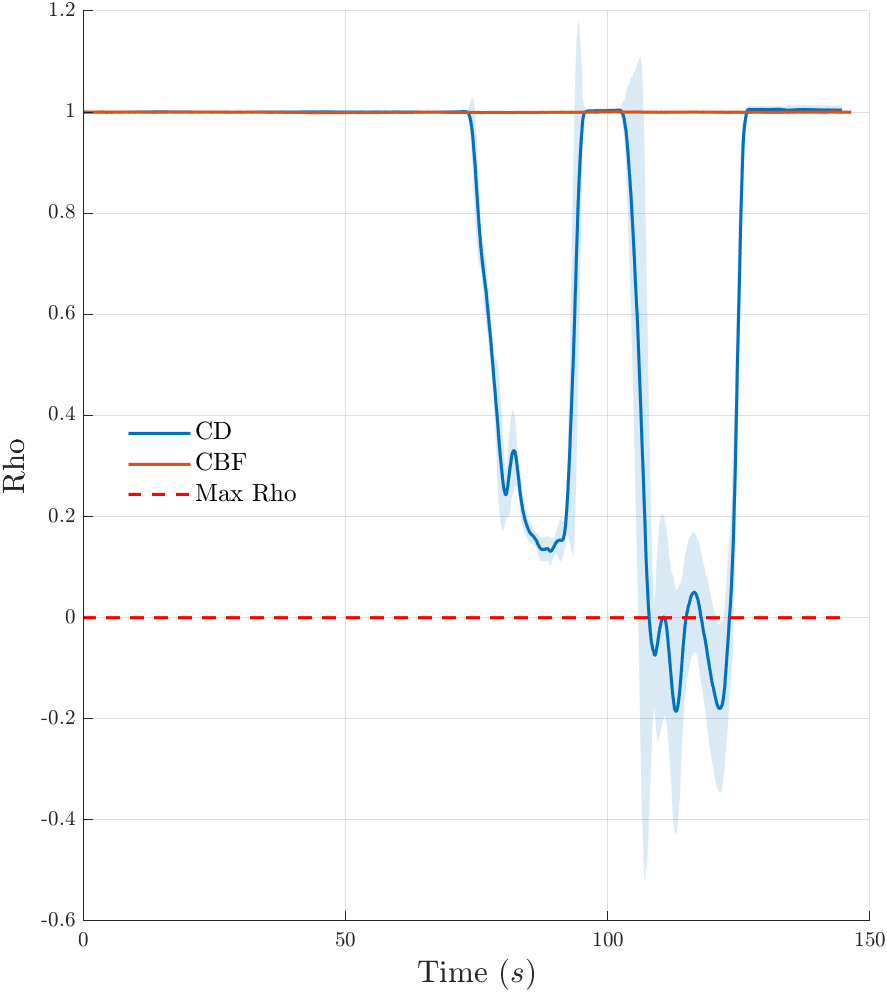
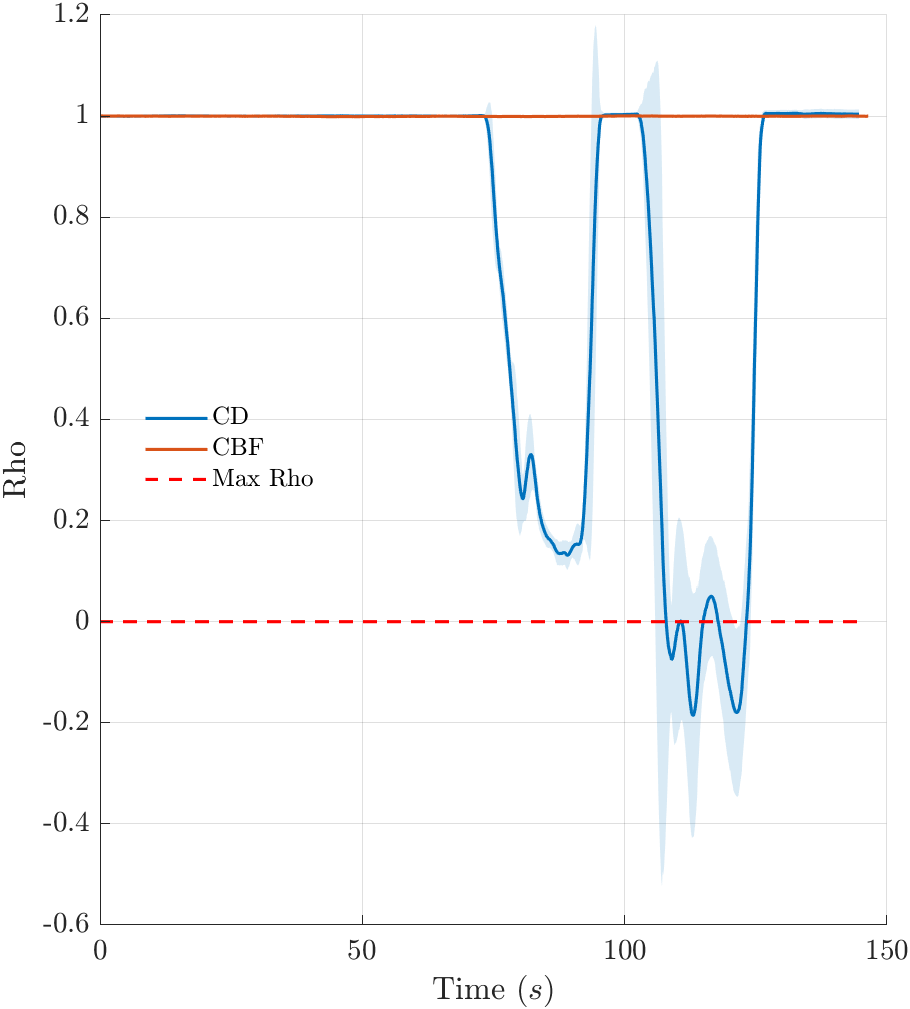
updated plots with changeable axis font size

diff --git a/soft_plotting_code/example_plotter.m b/soft_plotting_code/example_plotter.m
@@ -36,23 +36,23 @@ k = 11.16;
 
 % Open-loop motion for dynamics calibration with amplitude of 100 and period of 200
 dat = 'manuscript_data/ezloophw_closedloop_ros2_reserv_pneumatics_2026-3-25_CalibrationRunV1.csv';
-[time_cal, q_cal, dq_cal, ddq_cal, smooth_q_cal, smooth_dq_cal, smooth_ddq_cal, calib_start,~] = ezloopdata_compare(dat, false, false, true, 0);
+[time_cal, q_cal, dq_cal, ddq_cal, smooth_q_cal, smooth_dq_cal, smooth_ddq_cal, calib_start,~,calib_cont] = ezloopdata_compare(dat, false, false, true, 0);
 
 % PD Tuning Results 
 dat = 'manuscript_data/ezloophw_closedloop_ros2_reserv_pneumatics_2026-3-26_PD1.csv'; 
-[time_PD1, q_PD1, dq_PD1, ddq_PD1, smooth_q_PD1, smooth_dq_PD1, smooth_ddq_PD1,~,~] = ezloopdata_compare(dat, false, false, true, 0);
+[time_PD1, q_PD1, dq_PD1, ddq_PD1, smooth_q_PD1, smooth_dq_PD1, smooth_ddq_PD1,~,~,~] = ezloopdata_compare(dat, false, false, true, 0);
 
 dat = 'manuscript_data/ezloophw_closedloop_ros2_reserv_pneumatics_2026-3-26_PD2.csv'; 
-[time_PD2, q_PD2, dq_PD2, ddq_PD2, smooth_q_PD2, smooth_dq_PD2, smooth_ddq_PD2,~,~] = ezloopdata_compare(dat, false, false, true, 0);
+[time_PD2, q_PD2, dq_PD2, ddq_PD2, smooth_q_PD2, smooth_dq_PD2, smooth_ddq_PD2,~,~,~] = ezloopdata_compare(dat, false, false, true, 0);
 
 dat = 'manuscript_data/ezloophw_closedloop_ros2_reserv_pneumatics_2026-3-26_PD3.csv'; 
-[time_PD3, q_PD3, dq_PD3, ddq_PD3, smooth_q_PD3, smooth_dq_PD3, smooth_ddq_PD3,~,~] = ezloopdata_compare(dat, false, false, true, 0);
+[time_PD3, q_PD3, dq_PD3, ddq_PD3, smooth_q_PD3, smooth_dq_PD3, smooth_ddq_PD3,~,~,~] = ezloopdata_compare(dat, false, false, true, 0);
 
 dat = 'manuscript_data/ezloophw_closedloop_ros2_reserv_pneumatics_2026-3-26_PD4.csv'; 
-[time_PD4, q_PD4, dq_PD4, ddq_PD4, smooth_q_PD4, smooth_dq_PD4, smooth_ddq_PD4,~,~] = ezloopdata_compare(dat, false, false, true, 0);
+[time_PD4, q_PD4, dq_PD4, ddq_PD4, smooth_q_PD4, smooth_dq_PD4, smooth_ddq_PD4,~,~,~] = ezloopdata_compare(dat, false, false, true, 0);
 
 dat = 'manuscript_data/ezloophw_closedloop_ros2_reserv_pneumatics_2026-3-26_PD5.csv'; 
-[time_PD5, q_PD5, dq_PD5, ddq_PD5, smooth_q_PD5, smooth_dq_PD5, smooth_ddq_PD5,~,~] = ezloopdata_compare(dat, false, false, true, 0);
+[time_PD5, q_PD5, dq_PD5, ddq_PD5, smooth_q_PD5, smooth_dq_PD5, smooth_ddq_PD5,~,~,~] = ezloopdata_compare(dat, false, false, true, 0);
 
 smooth_q_cells = {smooth_q_PD1, smooth_q_PD2, smooth_q_PD3, ...
                   smooth_q_PD4, smooth_q_PD5};
@@ -71,19 +71,19 @@ TunePD = ezloopdata_safetyplotter(smooth_q_cells, time_cells, time_step, smooth_
 
 % PD Attempt at Tracking Calibration 
 dat = 'manuscript_data/ezloophw_closedloop_ros2_reserv_pneumatics_2026-3-26_PDCal1.csv'; 
-[time_PDCal1, q_PDCal1, dq_PDCal1, ddq_PDCal1, smooth_q_PDCal1, smooth_dq_PDCal1, smooth_ddq_PDCal1,~,~] = ezloopdata_compare(dat, false, false, true, calib_start);
+[time_PDCal1, q_PDCal1, dq_PDCal1, ddq_PDCal1, smooth_q_PDCal1, smooth_dq_PDCal1, smooth_ddq_PDCal1,~,~,~] = ezloopdata_compare(dat, false, false, true, calib_start);
 
 dat = 'manuscript_data/ezloophw_closedloop_ros2_reserv_pneumatics_2026-3-26_PDCal2.csv'; 
-[time_PDCal2, q_PDCal2, dq_PDCal2, ddq_PDCal2, smooth_q_PDCal2, smooth_dq_PDCal2, smooth_ddq_PDCal2,~,~] = ezloopdata_compare(dat, false, false, true, calib_start);
+[time_PDCal2, q_PDCal2, dq_PDCal2, ddq_PDCal2, smooth_q_PDCal2, smooth_dq_PDCal2, smooth_ddq_PDCal2,~,~,~] = ezloopdata_compare(dat, false, false, true, calib_start);
 
 dat = 'manuscript_data/ezloophw_closedloop_ros2_reserv_pneumatics_2026-3-26_PDCal3.csv'; 
-[time_PDCal3, q_PDCal3, dq_PDCal3, ddq_PDCal3, smooth_q_PDCal3, smooth_dq_PDCal3, smooth_ddq_PDCal3,~,~] = ezloopdata_compare(dat, false, false, true, calib_start);
+[time_PDCal3, q_PDCal3, dq_PDCal3, ddq_PDCal3, smooth_q_PDCal3, smooth_dq_PDCal3, smooth_ddq_PDCal3,~,~,~] = ezloopdata_compare(dat, false, false, true, calib_start);
 
 dat = 'manuscript_data/ezloophw_closedloop_ros2_reserv_pneumatics_2026-3-26_PDCal4.csv'; 
-[time_PDCal4, q_PDCal4, dq_PDCal4, ddq_PDCal4, smooth_q_PDCal4, smooth_dq_PDCal4, smooth_ddq_PDCal4,~,~] = ezloopdata_compare(dat, false, false, true, calib_start);
+[time_PDCal4, q_PDCal4, dq_PDCal4, ddq_PDCal4, smooth_q_PDCal4, smooth_dq_PDCal4, smooth_ddq_PDCal4,~,~,~] = ezloopdata_compare(dat, false, false, true, calib_start);
 
 dat = 'manuscript_data/ezloophw_closedloop_ros2_reserv_pneumatics_2026-3-26_PDCal5.csv'; 
-[time_PDCal5, q_PDCal5, dq_PDCal5, ddq_PDCal5, smooth_q_PDCal5, smooth_dq_PDCal5, smooth_ddq_PDCal5,~,~] = ezloopdata_compare(dat, false, false, true, calib_start);
+[time_PDCal5, q_PDCal5, dq_PDCal5, ddq_PDCal5, smooth_q_PDCal5, smooth_dq_PDCal5, smooth_ddq_PDCal5,~,~,~] = ezloopdata_compare(dat, false, false, true, calib_start);
 
 smooth_q_cells = {smooth_q_PDCal1, smooth_q_PDCal2, smooth_q_PDCal3, ...
                   smooth_q_PDCal4, smooth_q_PDCal5};
@@ -96,19 +96,19 @@ CalibPD = ezloopdata_safetyplotter(smooth_q_cells, time_cells, time_cal, smooth_
 
 % CD Results tracking calib trajectory
 dat = 'manuscript_data/ezloophw_closedloop_ros2_reserv_pneumatics_2026-3-25_TrackCalib1.csv'; 
-[time_tra1, q_tra1, dq_tra1, ddq_tra1, smooth_q_tra1, smooth_dq_tra1, smooth_ddq_tra1,~,~] = ezloopdata_compare(dat, false, false, true, calib_start);
+[time_tra1, q_tra1, dq_tra1, ddq_tra1, smooth_q_tra1, smooth_dq_tra1, smooth_ddq_tra1,~,~,~] = ezloopdata_compare(dat, false, false, true, calib_start);
 
 dat = 'manuscript_data/ezloophw_closedloop_ros2_reserv_pneumatics_2026-3-25_TrackCalib2.csv'; 
-[time_tra2, q_tra2, dq_tra2, ddq_tra2, smooth_q_tra2, smooth_dq_tra2, smooth_ddq_tra2,~,~] = ezloopdata_compare(dat, false, false, true, calib_start);
+[time_tra2, q_tra2, dq_tra2, ddq_tra2, smooth_q_tra2, smooth_dq_tra2, smooth_ddq_tra2,~,~,~] = ezloopdata_compare(dat, false, false, true, calib_start);
 
 dat = 'manuscript_data/ezloophw_closedloop_ros2_reserv_pneumatics_2026-3-25_TrackCalib3.csv'; 
-[time_tra3, q_tra3, dq_tra3, ddq_tra3, smooth_q_tra3, smooth_dq_tra3, smooth_ddq_tra3,~,~] = ezloopdata_compare(dat, false, false, true, calib_start);
+[time_tra3, q_tra3, dq_tra3, ddq_tra3, smooth_q_tra3, smooth_dq_tra3, smooth_ddq_tra3,~,~,~] = ezloopdata_compare(dat, false, false, true, calib_start);
 
 dat = 'manuscript_data/ezloophw_closedloop_ros2_reserv_pneumatics_2026-3-25_TrackCalib4.csv'; 
-[time_tra4, q_tra4, dq_tra4, ddq_tra4, smooth_q_tra4, smooth_dq_tra4, smooth_ddq_tra4,~,~] = ezloopdata_compare(dat, false, false, true, calib_start);
+[time_tra4, q_tra4, dq_tra4, ddq_tra4, smooth_q_tra4, smooth_dq_tra4, smooth_ddq_tra4,~,~,~] = ezloopdata_compare(dat, false, false, true, calib_start);
 
 dat = 'manuscript_data/ezloophw_closedloop_ros2_reserv_pneumatics_2026-3-25_TrackCalib5.csv'; 
-[time_tra5, q_tra5, dq_tra5, ddq_tra5, smooth_q_tra5, smooth_dq_tra5, smooth_ddq_tra5,~,~] = ezloopdata_compare(dat, false, false, true, calib_start);
+[time_tra5, q_tra5, dq_tra5, ddq_tra5, smooth_q_tra5, smooth_dq_tra5, smooth_ddq_tra5,~,~,~] = ezloopdata_compare(dat, false, false, true, calib_start);
 
 smooth_q_cells = {smooth_q_tra1, smooth_q_tra2, smooth_q_tra3, ...
                   smooth_q_tra4, smooth_q_tra5};
@@ -135,23 +135,23 @@ CalibCD = ezloopdata_safetyplotter(smooth_q_cells, time_cells, time_cal, smooth_
 %%%%%%%%%%%%%%%%%%%%%%%%%%%%%%%%%%%%%%%%%
 % Teach-and-Repeat 4 trajectory
 dat = 'manuscript_data/ezloophw_closedloop_ros2_reserv_pneumatics_2026-3-26_TnR4.csv'; 
-[time_TnR4, q_TnR4, dq_TnR4, ddq_TnR4, smooth_q_TnR4,smooth_dq_TnR4,smooth_ddq_TnR4, index_TnR4, ~] = ezloopdata_compare(dat, false, false, false, 0);
+[time_TnR4, q_TnR4, dq_TnR4, ddq_TnR4, smooth_q_TnR4,smooth_dq_TnR4,smooth_ddq_TnR4, index_TnR4, ~,~] = ezloopdata_compare(dat, false, false, false, 0);
 
 % Inverse Dynamics Controller on TnR4 w/o forceplate
 dat = 'manuscript_data/ezloophw_closedloop_ros2_reserv_pneumatics_2026-3-26_TnR4CD1.csv'; 
-[time_CD1, q_CD1, dq_CD1, ddq_CD1, smooth_q_CD1, smooth_dq_CD1, smooth_ddq_CD1, ~, ~] = ezloopdata_compare(dat, false, false, false, index_TnR4);
+[time_CD1, q_CD1, dq_CD1, ddq_CD1, smooth_q_CD1, smooth_dq_CD1, smooth_ddq_CD1, ~, ~,~] = ezloopdata_compare(dat, false, false, false, index_TnR4);
 
 dat = 'manuscript_data/ezloophw_closedloop_ros2_reserv_pneumatics_2026-3-26_TnR4CD2.csv'; 
-[time_CD2, q_CD2, dq_CD2, ddq_CD2, smooth_q_CD2, smooth_dq_CD2, smooth_ddq_CD2, ~, ~] = ezloopdata_compare(dat, false, false, false, index_TnR4);
+[time_CD2, q_CD2, dq_CD2, ddq_CD2, smooth_q_CD2, smooth_dq_CD2, smooth_ddq_CD2, ~, ~,~] = ezloopdata_compare(dat, false, false, false, index_TnR4);
 
 dat = 'manuscript_data/ezloophw_closedloop_ros2_reserv_pneumatics_2026-3-26_TnR4CD3.csv'; 
-[time_CD3, q_CD3, dq_CD3, ddq_CD3, smooth_q_CD3, smooth_dq_CD3, smooth_ddq_CD3, ~, ~] = ezloopdata_compare(dat, false, false, false, index_TnR4);
+[time_CD3, q_CD3, dq_CD3, ddq_CD3, smooth_q_CD3, smooth_dq_CD3, smooth_ddq_CD3, ~, ~,~] = ezloopdata_compare(dat, false, false, false, index_TnR4);
 
 dat = 'manuscript_data/ezloophw_closedloop_ros2_reserv_pneumatics_2026-3-26_TnR4CD4.csv'; 
-[time_CD4, q_CD4, dq_CD4, ddq_CD4, smooth_q_CD4, smooth_dq_CD4, smooth_ddq_CD4, ~, ~] = ezloopdata_compare(dat, false, false, false, index_TnR4);
+[time_CD4, q_CD4, dq_CD4, ddq_CD4, smooth_q_CD4, smooth_dq_CD4, smooth_ddq_CD4, ~, ~,~] = ezloopdata_compare(dat, false, false, false, index_TnR4);
 
 dat = 'manuscript_data/ezloophw_closedloop_ros2_reserv_pneumatics_2026-3-26_TnR4CD5.csv'; 
-[time_CD5, q_CD5, dq_CD5, ddq_CD5, smooth_q_CD5, smooth_dq_CD5, smooth_ddq_CD5, ~, ~] = ezloopdata_compare(dat, false, false, false, index_TnR4);
+[time_CD5, q_CD5, dq_CD5, ddq_CD5, smooth_q_CD5, smooth_dq_CD5, smooth_ddq_CD5, ~, ~,~] = ezloopdata_compare(dat, false, false, false, index_TnR4);
 
 smooth_q_cells = {smooth_q_CD1, smooth_q_CD2, smooth_q_CD3, ...
                   smooth_q_CD4, smooth_q_CD5};
@@ -164,19 +164,19 @@ TnR = ezloopdata_safetyplotter(smooth_q_cells, time_cells, time_TnR4, smooth_q_T
 
 % Inverse Dynamics Controller on TnR4 w/ forceplate
 dat = 'manuscript_data/ezloophw_closedloop_ros2_reserv_pneumatics_2026-3-26_CD4FP1.csv'; 
-[time_CDFP1, q_CDFP1, dq_CDFP1, ddq_CDFP1, smooth_q_CDFP1, smooth_dq_CDFP1, smooth_ddq_CDFP1, ~, rho0_CDFP1] = ezloopdata_compare(dat, false, false, false, index_TnR4);
+[time_CDFP1, q_CDFP1, dq_CDFP1, ddq_CDFP1, smooth_q_CDFP1, smooth_dq_CDFP1, smooth_ddq_CDFP1, ~, rho0_CDFP1,~] = ezloopdata_compare(dat, false, false, false, index_TnR4);
  
 dat = 'manuscript_data/ezloophw_closedloop_ros2_reserv_pneumatics_2026-3-26_CD4FP2.csv'; 
-[time_CDFP2, q_CDFP2, dq_CDFP2, ddq_CDFP2, smooth_q_CDFP2, smooth_dq_CDFP2, smooth_ddq_CDFP2, ~, rho0_CDFP2] = ezloopdata_compare(dat, false, false, false, index_TnR4);
+[time_CDFP2, q_CDFP2, dq_CDFP2, ddq_CDFP2, smooth_q_CDFP2, smooth_dq_CDFP2, smooth_ddq_CDFP2, ~, rho0_CDFP2,~] = ezloopdata_compare(dat, false, false, false, index_TnR4);
 
 dat = 'manuscript_data/ezloophw_closedloop_ros2_reserv_pneumatics_2026-3-26_CD4FP3.csv'; 
-[time_CDFP3, q_CDFP3, dq_CDFP3, ddq_CDFP3, smooth_q_CDFP3, smooth_dq_CDFP3, smooth_ddq_CDFP3, ~, rho0_CDFP3] = ezloopdata_compare(dat, false, false, false, index_TnR4);
+[time_CDFP3, q_CDFP3, dq_CDFP3, ddq_CDFP3, smooth_q_CDFP3, smooth_dq_CDFP3, smooth_ddq_CDFP3, ~, rho0_CDFP3,~] = ezloopdata_compare(dat, false, false, false, index_TnR4);
 
 dat = 'manuscript_data/ezloophw_closedloop_ros2_reserv_pneumatics_2026-3-26_CD4FP4.csv'; 
-[time_CDFP4, q_CDFP4, dq_CDFP4, ddq_CDFP4, smooth_q_CDFP4, smooth_dq_CDFP4, smooth_ddq_CDFP4, ~, rho0_CDFP4] = ezloopdata_compare(dat, false, false, false, index_TnR4);
+[time_CDFP4, q_CDFP4, dq_CDFP4, ddq_CDFP4, smooth_q_CDFP4, smooth_dq_CDFP4, smooth_ddq_CDFP4, ~, rho0_CDFP4,~] = ezloopdata_compare(dat, false, false, false, index_TnR4);
 
 dat = 'manuscript_data/ezloophw_closedloop_ros2_reserv_pneumatics_2026-3-26_CD4FP5.csv'; 
-[time_CDFP5, q_CDFP5, dq_CDFP5, ddq_CDFP5, smooth_q_CDFP5, smooth_dq_CDFP5, smooth_ddq_CDFP5, ~, rho0_CDFP5] = ezloopdata_compare(dat, false, false, false, index_TnR4);
+[time_CDFP5, q_CDFP5, dq_CDFP5, ddq_CDFP5, smooth_q_CDFP5, smooth_dq_CDFP5, smooth_ddq_CDFP5, ~, rho0_CDFP5,~] = ezloopdata_compare(dat, false, false, false, index_TnR4);
 
 smooth_q_cells = {smooth_q_CDFP1, smooth_q_CDFP2, smooth_q_CDFP3, ...
                   smooth_q_CDFP4, smooth_q_CDFP5};
@@ -191,19 +191,19 @@ TnRCDFP = ezloopdata_safetyplotter(smooth_q_cells, time_cells, time_TnR4, smooth
 %% CBF Controller Response for High Conservative Case for Teach and Repeat 4
 
 dat = 'manuscript_data/ezloophw_closedloop_ros2_reserv_pneumatics_2026-3-26_TnR4CBFH1.csv'; 
-[time_H1, q_H1, dq_H1, ddq_H1, smooth_q_H1, smooth_dq_H1, smooth_ddq_H1, ~, rho0_H1] = ezloopdata_compare(dat, false, false, false, index_TnR4);
+[time_H1, q_H1, dq_H1, ddq_H1, smooth_q_H1, smooth_dq_H1, smooth_ddq_H1, ~, rho0_H1,~] = ezloopdata_compare(dat, false, false, false, index_TnR4);
  
 dat = 'manuscript_data/ezloophw_closedloop_ros2_reserv_pneumatics_2026-3-26_TnR4CBFH2.csv'; 
-[time_H2, q_H2, dq_H2, ddq_H2, smooth_q_H2, smooth_dq_H2, smooth_ddq_H2, ~, rho0_H2] = ezloopdata_compare(dat, false, false, false, index_TnR4);
+[time_H2, q_H2, dq_H2, ddq_H2, smooth_q_H2, smooth_dq_H2, smooth_ddq_H2, ~, rho0_H2,~] = ezloopdata_compare(dat, false, false, false, index_TnR4);
 
 dat = 'manuscript_data/ezloophw_closedloop_ros2_reserv_pneumatics_2026-3-26_TnR4CBFH3.csv'; 
-[time_H3, q_H3, dq_H3, ddq_H3, smooth_q_H3, smooth_dq_H3, smooth_ddq_H3, ~, rho0_H3] = ezloopdata_compare(dat, false, false, false, index_TnR4);
+[time_H3, q_H3, dq_H3, ddq_H3, smooth_q_H3, smooth_dq_H3, smooth_ddq_H3, ~, rho0_H3,~] = ezloopdata_compare(dat, false, false, false, index_TnR4);
 
 dat = 'manuscript_data/ezloophw_closedloop_ros2_reserv_pneumatics_2026-3-26_TnR4CBFH4.csv'; 
-[time_H4, q_H4, dq_H4, ddq_H4, smooth_q_H4, smooth_dq_H4, smooth_ddq_H4, ~, rho0_H4] = ezloopdata_compare(dat, false, false, false, index_TnR4);
+[time_H4, q_H4, dq_H4, ddq_H4, smooth_q_H4, smooth_dq_H4, smooth_ddq_H4, ~, rho0_H4,~] = ezloopdata_compare(dat, false, false, false, index_TnR4);
 
 dat = 'manuscript_data/ezloophw_closedloop_ros2_reserv_pneumatics_2026-3-26_TnR4CBFH5.csv'; 
-[time_H5, q_H5, dq_H5, ddq_H5, smooth_q_H5, smooth_dq_H5, smooth_ddq_H5, ~, rho0_H5] = ezloopdata_compare(dat, false, false, false, index_TnR4);
+[time_H5, q_H5, dq_H5, ddq_H5, smooth_q_H5, smooth_dq_H5, smooth_ddq_H5, ~, rho0_H5,~] = ezloopdata_compare(dat, false, false, false, index_TnR4);
 
 smooth_q_cells = {smooth_q_H1, smooth_q_H2, smooth_q_H3, ...
                   smooth_q_H4, smooth_q_H5};
@@ -242,6 +242,8 @@ xlabel('Time (s)','FontSize',15)
 ylabel('$q_0$ (radians)','FontSize',15)
 lgd = legend([p1, p_r1], {'Calibrated Simulation','Reference Data'}, 'Location','best','FontSize',12);
 xlim([0 sim_time(end)])
+ax = gca;
+ax.FontSize = 14;
 grid on;
 hold off
 
@@ -251,6 +253,8 @@ p1 = plot(sim_time, sim_q2_inter, 'Color', [0 0.4470 0.7410], 'LineWidth', 1.5);
 
 xlabel('Time (s)','FontSize',15)
 ylabel('$q_1$ (radians)','FontSize',15)
+ax = gca;
+ax.FontSize = 14;
 grid on;
 hold off
 
@@ -324,6 +328,8 @@ p3 = plot(out1.rho.time, out1.rho.max, '--r', 'LineWidth', 1.5);
 
 ylabel('Rho','FontSize',15);xlabel('Time ($s$)','FontSize',15)
 lgd = legend([p1,p2,p3],{'CD','CBF','Max Rho'},'Location','best','FontSize',12);
+ax = gca;
+ax.FontSize = 14;
 
 lgd.Units = 'normalized';       % Make position relative to axes
 pos1 = lgd.Position;
@@ -360,6 +366,8 @@ p3 = plot(out1.time, F_max, '--r', 'LineWidth', 1.5);
 
 ylabel('Force ($N$)','FontSize',15);xlabel('Time ($s$)','FontSize',15)
 lgd = legend([p1,p2,p3],{'CD','CBF','Max Force'},'Location','best','FontSize',12);
+ax = gca;
+ax.FontSize = 14;
 
 hold off
 
@@ -386,6 +394,8 @@ p3 = plot(out1.time, F_max, '--r', 'LineWidth', 1.5);
 
 ylabel('Force ($N$)','FontSize',15);xlabel('Time ($s$)','FontSize',15)
 lgd = legend([p1,p3],{'CD','Max Force'},'Location','best','FontSize',12);
+ax = gca;
+ax.FontSize = 14;
 
 hold off
 
@@ -414,6 +424,8 @@ p3 = plot(out1.time, F_max, '--r', 'LineWidth', 1.5);
 
 ylabel('Force ($N$)','FontSize',15);xlabel('Time ($s$)','FontSize',15)
 lgd = legend([p2,p3],{'CBF','Max Force'},'Location','best','FontSize',12);
+ax = gca;
+ax.FontSize = 14;
 
 hold off
 
@@ -444,6 +456,8 @@ p2 = plot(out2.time, out2.q0.mu, 'Color', [0.8500 0.3250 0.0980], 'LineWidth', 1
 xlabel('Time (s)','FontSize',15)
 ylabel('$q_0$ (radians)','FontSize',15)
 lgd = legend([p1, p2, p_r1], {'CD','CBF','Reference'}, 'Location','best','FontSize',12);
+ax = gca;
+ax.FontSize = 14;
 grid on;
 hold off
 
@@ -458,13 +472,9 @@ p2 = plot(out2.time, out2.q1.mu, 'Color', [0.8500 0.3250 0.0980], 'LineWidth', 1
 
 xlabel('Time ($s$)','FontSize',15)
 ylabel('$q_1$ (radians)','FontSize',15)
+ax = gca;
+ax.FontSize = 14;
 hold off
-
-% lgd.Units = 'normalized';       % Make position relative to axes
-% pos1 = lgd.Position;
-% pos1(1) = pos1(1) - 0;         % Move right
-% pos1(2) = pos1(2) + 0;         % Move up
-% lgd.Position = pos1;
 
 hw_ratio = 1.1;
 
@@ -492,6 +502,8 @@ p1 = plot(out1.time, out1.q0.mu, 'Color', [0 0.4470 0.7410], 'LineWidth', 1.5);
 xlabel('Time (s)','FontSize',15)
 ylabel('$q_0$ (radians)','FontSize',15)
 lgd = legend([p1, p_r1], {'CD','Reference'}, 'Location','best','FontSize',12);
+ax = gca;
+ax.FontSize = 14;
 grid on;
 hold off
 
@@ -504,6 +516,8 @@ p1 = plot(out1.time, out1.q1.mu, 'Color', [0 0.4470 0.7410], 'LineWidth', 1.5);
 
 xlabel('Time ($s$)','FontSize',15)
 ylabel('$q_1$ (radians)','FontSize',15)
+ax = gca;
+ax.FontSize = 14;
 hold off
 
 % lgd.Units = 'normalized';       % Make position relative to axes
@@ -537,6 +551,8 @@ xlabel('Time (s)','FontSize',15)
 ylabel('$q_0$ (radians)','FontSize',15)
 lgd = legend([p1, p_r1], {'PD','Reference'}, 'Location','best','FontSize',12);
 xlim([0 TunePD.time_ref(end)])
+ax = gca;
+ax.FontSize = 14;
 grid on;
 hold off
 
@@ -547,6 +563,8 @@ p1 = plot(TunePD.time, TunePD.q1.mu, 'Color', [0 0.4470 0.7410], 'LineWidth', 1.
 
 xlabel('Time (s)','FontSize',15)
 ylabel('$q_1$ (radians)','FontSize',15)
+ax = gca;
+ax.FontSize = 14;
 grid on;
 hold off
 
@@ -576,6 +594,8 @@ xlabel('Time (s)','FontSize',15)
 ylabel('$q_0$ (radians)','FontSize',15)
 lgd = legend([p1, p_r1], {'PD','Reference'}, 'Location','best','FontSize',12);
 xlim([0 CalibPD.time_ref(end)])
+ax = gca;
+ax.FontSize = 14;
 grid on;
 hold off
 
@@ -586,6 +606,8 @@ p1 = plot(CalibPD.time, CalibPD.q1.mu, 'Color', [0 0.4470 0.7410], 'LineWidth', 
 
 xlabel('Time (s)','FontSize',15)
 ylabel('$q_1$ (radians)','FontSize',15)
+ax = gca;
+ax.FontSize = 14;
 grid on;
 hold off
 
@@ -615,6 +637,8 @@ xlabel('Time (s)','FontSize',15)
 ylabel('$q_0$ (radians)','FontSize',15)
 lgd = legend([p1, p_r1], {'CD','Reference'}, 'Location','best','FontSize',12);
 xlim([0 CalibCD.time_ref(end)])
+ax = gca;
+ax.FontSize = 14;
 grid on;
 hold off
 
@@ -625,6 +649,8 @@ p1 = plot(CalibCD.time, CalibCD.q1.mu, 'Color', [0 0.4470 0.7410], 'LineWidth', 
 
 xlabel('Time (s)','FontSize',15)
 ylabel('$q_1$ (radians)','FontSize',15)
+ax = gca;
+ax.FontSize = 14;
 grid on;
 hold off
 
@@ -653,6 +679,8 @@ p1 = plot(TnR.time, TnR.q0.mu, 'Color', [0 0.4470 0.7410], 'LineWidth', 1.5);
 xlabel('Time (s)','FontSize',15)
 ylabel('$q_0$ (radians)','FontSize',15)
 lgd = legend([p1, p_r1], {'CD','Reference'}, 'Location','best','FontSize',12);
+ax = gca;
+ax.FontSize = 14;
 xlim([0 TnR.time_ref(end)])
 grid on;
 hold off
@@ -664,6 +692,8 @@ p1 = plot(TnR.time, TnR.q1.mu, 'Color', [0 0.4470 0.7410], 'LineWidth', 1.5);
 
 xlabel('Time (s)','FontSize',15)
 ylabel('$q_1$ (radians)','FontSize',15)
+ax = gca;
+ax.FontSize = 14;
 grid on;
 hold off
 
@@ -679,3 +709,47 @@ grid on;
 
 fname = 'fin_plots/CDTnRTracking';
 exportgraphics(cdtnr_plot, strcat(fname, '.png'), 'ContentType', 'vector');
+
+%% Results from Low level tunning, how close can we follow control input
+
+cont_plot = figure;
+
+frs_limb = [calib_cont((1:length(time_cal)/2),1) ; -1*calib_cont((length(time_cal)/2+1):end,2)];
+sec_limb = [calib_cont((1:length(time_cal)/2),3) ; -1*calib_cont((length(time_cal)/2+1):end,4)];
+
+subplot(2,1,1)
+p1 = plot(time_cal,frs_limb,'Color', [1 0 0], 'LineWidth', 1.5); hold on 
+p3 = plot(time_cal,calib_cont(:,5), '-.', 'Color', [0.2 0.2 0.2], 'LineWidth', 2);
+
+xlabel('Time (s)','FontSize',15)
+ylabel('$u$ (hPa)','FontSize',15)
+lgd = legend([p1, p3], {'$u$ measured','$u$ commanded'}, 'Location','best','FontSize',12);
+ax = gca;
+ax.FontSize = 14;
+xlim([0 time_cal(end)])
+grid on;
+hold off
+
+subplot(2,1,2)
+p1 = plot(time_cal,sec_limb,'Color', [1 0 0], 'LineWidth', 1.5); hold on 
+p3 = plot(time_cal,calib_cont(:,6), '-.', 'Color', [0.2 0.2 0.2], 'LineWidth', 2);
+
+xlabel('Time (s)','FontSize',15)
+ylabel('$u$ (hPa)','FontSize',15)
+lgd = legend([p1, p3], {'$u$ measured','$u$ commanded'}, 'Location','best','FontSize',12);
+ax = gca;
+ax.FontSize = 14;
+xlim([0 time_cal(end)])
+grid on;
+hold off
+
+hw_ratio = 1.1;
+
+set(findall(cont_plot,'-property','Interpreter'), 'Interpreter', 'latex')
+set(findall(cont_plot,'-property','TickLabelInterpreter'), 'TickLabelInterpreter', 'latex')
+set(findall(cont_plot,'-property','Box'), 'Box', 'off')
+set(cont_plot, 'Units', 'centimeters', ...
+        'Position', [2.3 1 picturewidth_singlecolumn hw_ratio * picturewidth_singlecolumn]);
+
+fname = 'fin_plots/LowLevelTuningCon';
+exportgraphics(cont_plot, strcat(fname, '.png'), 'ContentType', 'vector');

diff --git a/soft_plotting_code/ezloopdata_compare.m b/soft_plotting_code/ezloopdata_compare.m
@@ -1,5 +1,5 @@
 
-function [time_vec, q, dq, ddq, smooth_q, smooth_dq, smooth_ddq, indexs, rho0] = ezloopdata_compare(data, doPlot, stepResponse, sinResponse, indexs)
+function [time_vec, q, dq, ddq, smooth_q, smooth_dq, smooth_ddq, indexs, rho0, ControlComp] = ezloopdata_compare(data, doPlot, stepResponse, sinResponse, indexs)
 % processEzLoopData  Load and process EZ-Loop ROS2 dataset
 %
 % INPUT
@@ -139,6 +139,8 @@ val3 = data.ValveOpening_3(startidx:endidx);
 %% Extract Command Inputs
 u0 = data.("u_t(0)")(startidx:endidx);
 u1 = data.("u_t(1)")(startidx:endidx);
+
+ControlComp = [abs_0 abs_1 abs_2 abs_3 u0 u1];
 
 %% Extract Force Measurements
 f0 = data.("ForcePlate_0"); % (forceplate in positive direction)
